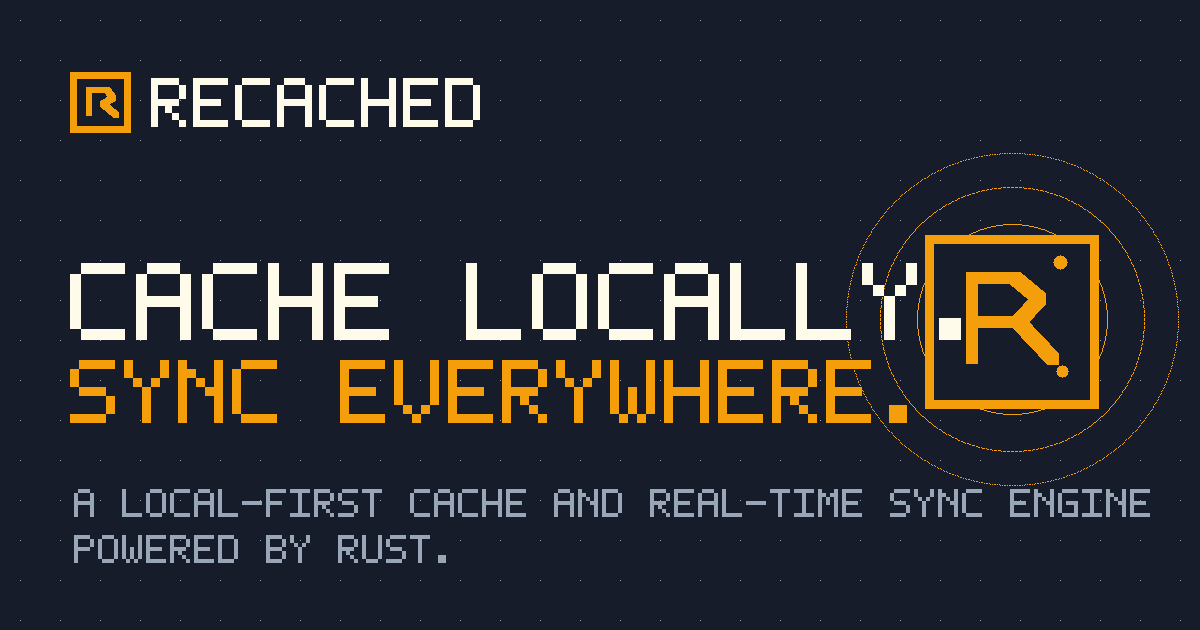
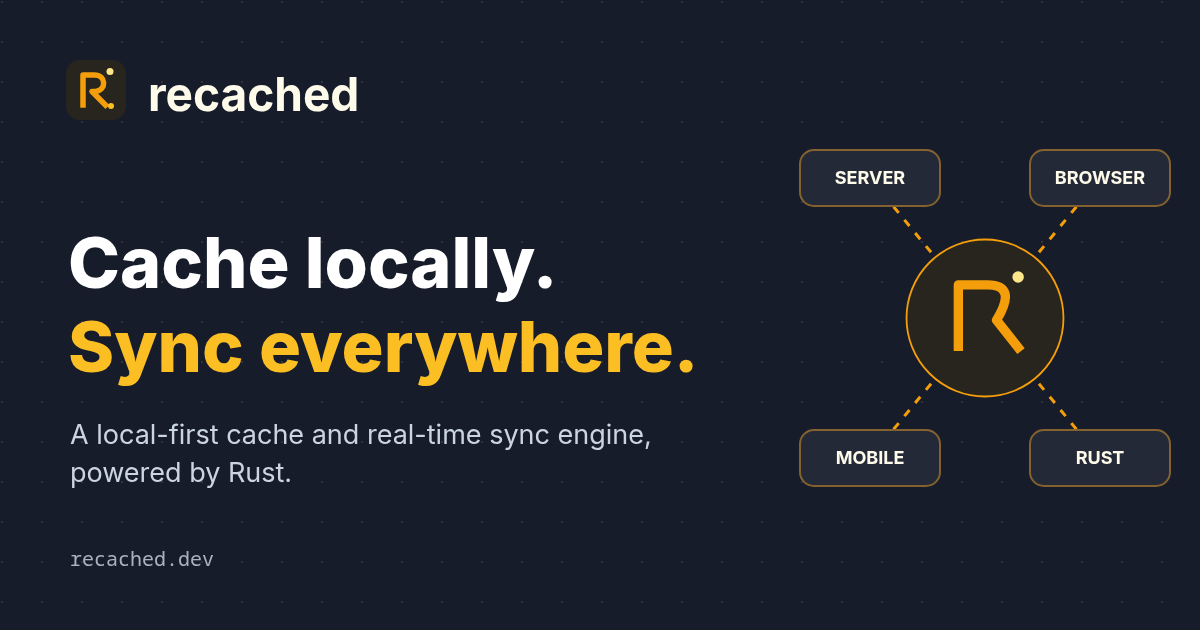
design: rebuild the social card from an SVG source; brand README badges
The 1200x630 social card had no source file, used a pixel face and an
outlined R unlike the rest of the identity, and its "LOCALLY." collided with
the R tile. brand/social-card.svg now follows banner.svg (connected R hub,
Inter, Amber Signal colors) and the PNG is rendered from it.

README badges use a navy label and gold value, where shields.io switches to
dark text; amber values kept white text at 2.2:1.

diff --git a/README.md b/README.md
@@ -4,11 +4,11 @@
   <p><b>A local-first cache and real-time sync engine, powered by Rust.</b></p>
   <p>Cache locally. Sync everywhere.</p>
 
-  <a href="https://recached.dev"><img src="https://img.shields.io/badge/Docs-recached.dev-blue.svg" alt="Docs"></a>
-  <a href="https://www.npmjs.com/package/recached-edge"><img src="https://img.shields.io/npm/v/recached-edge?label=npm" alt="npm"></a>
-  <a href="https://www.rust-lang.org"><img src="https://img.shields.io/badge/Language-Rust-orange.svg?logo=rust" alt="Rust"></a>
-  <a href="https://webassembly.org"><img src="https://img.shields.io/badge/Ecosystem-WebAssembly-yellow.svg" alt="Wasm"></a>
-  <a href="LICENSE.md"><img src="https://img.shields.io/badge/License-Apache_2.0-green.svg" alt="Apache 2.0"></a>
+  <a href="https://recached.dev"><img src="https://img.shields.io/badge/Docs-recached.dev-FBBF24.svg?labelColor=171C2B" alt="Docs"></a>
+  <a href="https://www.npmjs.com/package/recached-edge"><img src="https://img.shields.io/npm/v/recached-edge?label=npm&color=FBBF24&labelColor=171C2B" alt="npm"></a>
+  <a href="https://www.rust-lang.org"><img src="https://img.shields.io/badge/Language-Rust-FBBF24.svg?logo=rust&labelColor=171C2B" alt="Rust"></a>
+  <a href="https://webassembly.org"><img src="https://img.shields.io/badge/Ecosystem-WebAssembly-FBBF24.svg?labelColor=171C2B" alt="Wasm"></a>
+  <a href="LICENSE.md"><img src="https://img.shields.io/badge/License-Apache_2.0-FBBF24.svg?labelColor=171C2B" alt="Apache 2.0"></a>
 </div>
 
 ---

diff --git a/brand/README.md b/brand/README.md
@@ -12,6 +12,6 @@
 | Midnight | `#171C2B` | Dark artwork and text on amber |
 | Dark amber | `#92400E` | Accessible links on light backgrounds |
 
-Assets: `logo.svg` for icon; `wordmark.svg` for dark-background wordmark; `banner.svg` for 1600×600 README banner; `hero.svg` for docs homepage. A social sharing image is served from `docs/public/brand/social-card.png`.
+Assets: `logo.svg` for icon; `wordmark.svg` for dark-background wordmark; `banner.svg` for 1600×600 README banner; `hero.svg` for docs homepage. `social-card.svg` is the source of the 1200×630 social sharing image served from `docs/public/brand/social-card.png`; re-render the PNG after editing it. Homepage feature icons are amber line art in `docs/public/brand/icons/`.
 
 Avoid the previous orange-red/teal branding in new artwork. Keep old JPEG and PNG assets as legacy files. The diagrams illustrate cache synchronization, not database replication or full Redis command parity.
